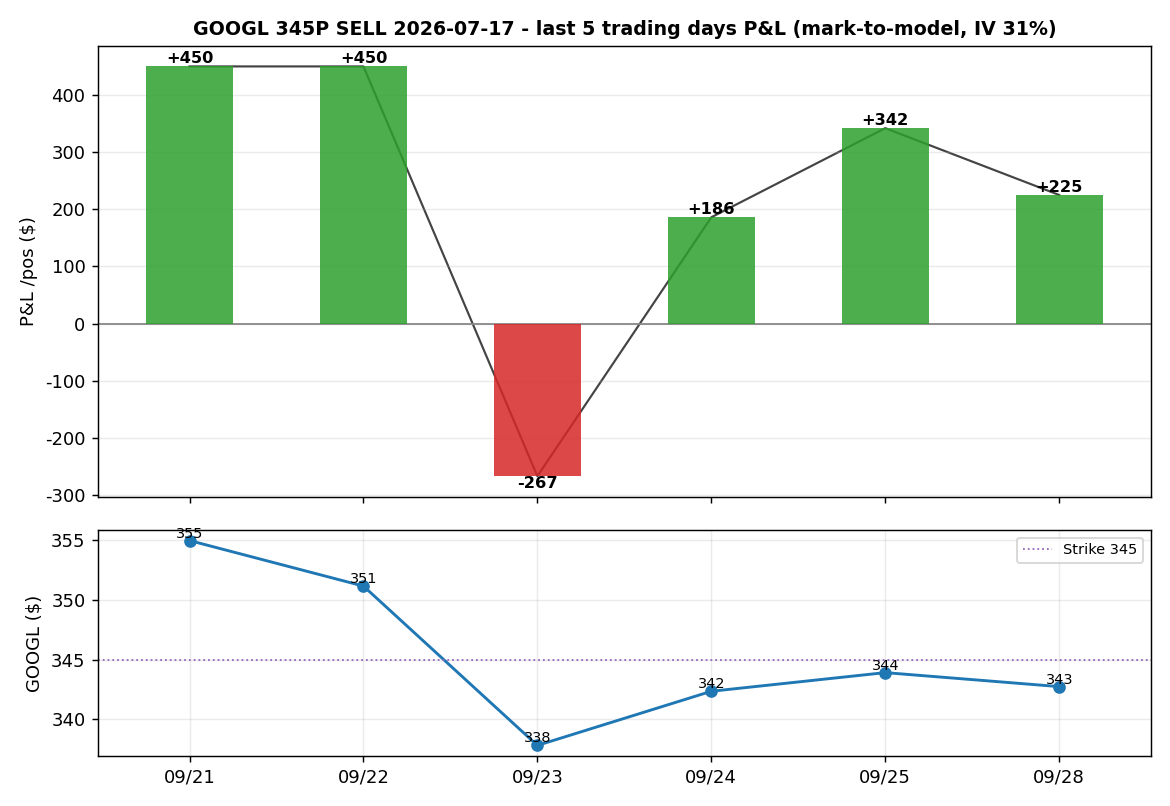
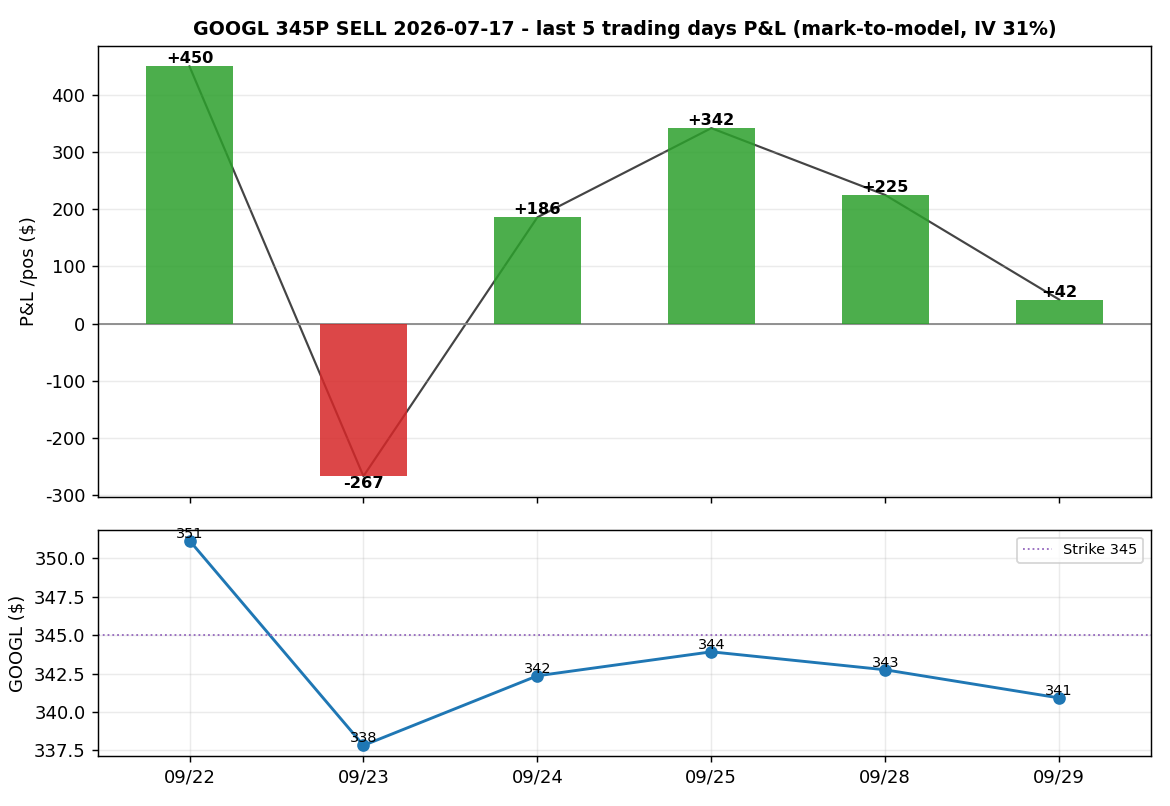
positions: 2026-10-01

diff --git a/positions.html b/positions.html
@@ -12,11 +12,11 @@ img{width:100%;height:auto;border-radius:8px;background:#fff}
 .warn{color:#e0a030;font-size:12.5px;line-height:1.7;margin-top:8px}
 </style></head><body><div class="wrap">
 <h1>持仓盈亏追踪</h1>
-<div class="sub">独立于每日荐股 · 数据 yfinance(延迟) · 盈亏为 BS 模型重算(IV 代理),非真实成交价 · 非投资建议<br>更新: 2026-09-30 00:43 UTC</div>
+<div class="sub">独立于每日荐股 · 数据 yfinance(延迟) · 盈亏为 BS 模型重算(IV 代理),非真实成交价 · 非投资建议<br>更新: 2026-10-01 00:47 UTC</div>
 <div class="card">
   <h2>STX Seagate · 835 PUT <span class="tag">SELL</span></h2>
   <div class="kv">到期 2026-06-26 · 建仓 2026-06-01 @ 权利金 $42.11 · 1 张<br>
-  最新(09/28): 标的 $921.51 · 浮动盈亏 <b class="g">+4,211</b>
+  最新(09/29): 标的 $913.45 · 浮动盈亏 <b class="g">+4,211</b>
   (区间 +4,211 ~ +4,211)<br>
   盈亏平衡 $792.89 · <b>赢的机率 PoP ≈ None%</b>(到期落在盈利侧, BS 估算)<br>
   下次财报 2026-10-27 ✅ 在到期后</div>
@@ -30,14 +30,14 @@ img{width:100%;height:auto;border-radius:8px;background:#fff}
     <tr><th style="border:1px solid #23262d;padding:5px 12px;color:#e0a030">日期</th>
         <th style="border:1px solid #23262d;padding:5px 12px;color:#e0a030">标的</th>
         <th style="border:1px solid #23262d;padding:5px 12px;color:#e0a030">P&L</th></tr>
-    <tr><td style="border:1px solid #23262d;padding:5px 12px">09/21</td><td style="border:1px solid #23262d;padding:5px 12px">$876.63</td><td class='g'>+4,211</td></tr><tr><td style="border:1px solid #23262d;padding:5px 12px">09/22</td><td style="border:1px solid #23262d;padding:5px 12px">$919.1</td><td class='g'>+4,211</td></tr><tr><td style="border:1px solid #23262d;padding:5px 12px">09/23</td><td style="border:1px solid #23262d;padding:5px 12px">$923.12</td><td class='g'>+4,211</td></tr><tr><td style="border:1px solid #23262d;padding:5px 12px">09/24</td><td style="border:1px solid #23262d;padding:5px 12px">$905.92</td><td class='g'>+4,211</td></tr><tr><td style="border:1px solid #23262d;padding:5px 12px">09/25</td><td style="border:1px solid #23262d;padding:5px 12px">$916.83</td><td class='g'>+4,211</td></tr><tr><td style="border:1px solid #23262d;padding:5px 12px">09/28</td><td style="border:1px solid #23262d;padding:5px 12px">$921.51</td><td class='g'>+4,211</td></tr>
+    <tr><td style="border:1px solid #23262d;padding:5px 12px">09/22</td><td style="border:1px solid #23262d;padding:5px 12px">$919.1</td><td class='g'>+4,211</td></tr><tr><td style="border:1px solid #23262d;padding:5px 12px">09/23</td><td style="border:1px solid #23262d;padding:5px 12px">$923.12</td><td class='g'>+4,211</td></tr><tr><td style="border:1px solid #23262d;padding:5px 12px">09/24</td><td style="border:1px solid #23262d;padding:5px 12px">$905.92</td><td class='g'>+4,211</td></tr><tr><td style="border:1px solid #23262d;padding:5px 12px">09/25</td><td style="border:1px solid #23262d;padding:5px 12px">$916.83</td><td class='g'>+4,211</td></tr><tr><td style="border:1px solid #23262d;padding:5px 12px">09/28</td><td style="border:1px solid #23262d;padding:5px 12px">$921.51</td><td class='g'>+4,211</td></tr><tr><td style="border:1px solid #23262d;padding:5px 12px">09/29</td><td style="border:1px solid #23262d;padding:5px 12px">$913.45</td><td class='g'>+4,211</td></tr>
   </table>
   <div class="warn">⚠ mark-to-model:用真实日线 + BS 重算(IV 固定 86% 代理),非真实期权成交价。</div>
 </div>
 <div class="card">
   <h2>GOOGL 谷歌 · 345 PUT <span class="tag">SELL</span></h2>
   <div class="kv">到期 2026-07-17 · 建仓 2026-06-01 @ 权利金 $4.5 · 1 张<br>
-  最新(09/28): 标的 $342.75 · 浮动盈亏 <b class="g">+225</b>
+  最新(09/29): 标的 $340.92 · 浮动盈亏 <b class="g">+42</b>
   (区间 -267 ~ +450)<br>
   盈亏平衡 $340.5 · <b>赢的机率 PoP ≈ None%</b>(到期落在盈利侧, BS 估算)<br>
   下次财报 2026-10-28 ✅ 在到期后</div>
@@ -51,14 +51,14 @@ img{width:100%;height:auto;border-radius:8px;background:#fff}
     <tr><th style="border:1px solid #23262d;padding:5px 12px;color:#e0a030">日期</th>
         <th style="border:1px solid #23262d;padding:5px 12px;color:#e0a030">标的</th>
         <th style="border:1px solid #23262d;padding:5px 12px;color:#e0a030">P&L</th></tr>
-    <tr><td style="border:1px solid #23262d;padding:5px 12px">09/21</td><td style="border:1px solid #23262d;padding:5px 12px">$354.97</td><td class='g'>+450</td></tr><tr><td style="border:1px solid #23262d;padding:5px 12px">09/22</td><td style="border:1px solid #23262d;padding:5px 12px">$351.16</td><td class='g'>+450</td></tr><tr><td style="border:1px solid #23262d;padding:5px 12px">09/23</td><td style="border:1px solid #23262d;padding:5px 12px">$337.83</td><td class='r'>-267</td></tr><tr><td style="border:1px solid #23262d;padding:5px 12px">09/24</td><td style="border:1px solid #23262d;padding:5px 12px">$342.36</td><td class='g'>+186</td></tr><tr><td style="border:1px solid #23262d;padding:5px 12px">09/25</td><td style="border:1px solid #23262d;padding:5px 12px">$343.92</td><td class='g'>+342</td></tr><tr><td style="border:1px solid #23262d;padding:5px 12px">09/28</td><td style="border:1px solid #23262d;padding:5px 12px">$342.75</td><td class='g'>+225</td></tr>
+    <tr><td style="border:1px solid #23262d;padding:5px 12px">09/22</td><td style="border:1px solid #23262d;padding:5px 12px">$351.16</td><td class='g'>+450</td></tr><tr><td style="border:1px solid #23262d;padding:5px 12px">09/23</td><td style="border:1px solid #23262d;padding:5px 12px">$337.83</td><td class='r'>-267</td></tr><tr><td style="border:1px solid #23262d;padding:5px 12px">09/24</td><td style="border:1px solid #23262d;padding:5px 12px">$342.36</td><td class='g'>+186</td></tr><tr><td style="border:1px solid #23262d;padding:5px 12px">09/25</td><td style="border:1px solid #23262d;padding:5px 12px">$343.92</td><td class='g'>+342</td></tr><tr><td style="border:1px solid #23262d;padding:5px 12px">09/28</td><td style="border:1px solid #23262d;padding:5px 12px">$342.75</td><td class='g'>+225</td></tr><tr><td style="border:1px solid #23262d;padding:5px 12px">09/29</td><td style="border:1px solid #23262d;padding:5px 12px">$340.92</td><td class='g'>+42</td></tr>
   </table>
   <div class="warn">⚠ mark-to-model:用真实日线 + BS 重算(IV 固定 31% 代理),非真实期权成交价。</div>
 </div>
 <div class="card">
   <h2>AAPL 苹果 · 295 PUT <span class="tag">SELL</span></h2>
   <div class="kv">到期 2026-07-10 · 建仓 2026-06-01 @ 权利金 $4.7 · 1 张<br>
-  最新(09/28): 标的 $338.4 · 浮动盈亏 <b class="g">+470</b>
+  最新(09/29): 标的 $329.4 · 浮动盈亏 <b class="g">+470</b>
   (区间 +470 ~ +470)<br>
   盈亏平衡 $290.3 · <b>赢的机率 PoP ≈ None%</b>(到期落在盈利侧, BS 估算)<br>
   下次财报 2026-10-29 ✅ 在到期后</div>
@@ -72,7 +72,7 @@ img{width:100%;height:auto;border-radius:8px;background:#fff}
     <tr><th style="border:1px solid #23262d;padding:5px 12px;color:#e0a030">日期</th>
         <th style="border:1px solid #23262d;padding:5px 12px;color:#e0a030">标的</th>
         <th style="border:1px solid #23262d;padding:5px 12px;color:#e0a030">P&L</th></tr>
-    <tr><td style="border:1px solid #23262d;padding:5px 12px">09/21</td><td style="border:1px solid #23262d;padding:5px 12px">$338.98</td><td class='g'>+470</td></tr><tr><td style="border:1px solid #23262d;padding:5px 12px">09/22</td><td style="border:1px solid #23262d;padding:5px 12px">$339.75</td><td class='g'>+470</td></tr><tr><td style="border:1px solid #23262d;padding:5px 12px">09/23</td><td style="border:1px solid #23262d;padding:5px 12px">$337.02</td><td class='g'>+470</td></tr><tr><td style="border:1px solid #23262d;padding:5px 12px">09/24</td><td style="border:1px solid #23262d;padding:5px 12px">$335.92</td><td class='g'>+470</td></tr><tr><td style="border:1px solid #23262d;padding:5px 12px">09/25</td><td style="border:1px solid #23262d;padding:5px 12px">$341.07</td><td class='g'>+470</td></tr><tr><td style="border:1px solid #23262d;padding:5px 12px">09/28</td><td style="border:1px solid #23262d;padding:5px 12px">$338.4</td><td class='g'>+470</td></tr>
+    <tr><td style="border:1px solid #23262d;padding:5px 12px">09/22</td><td style="border:1px solid #23262d;padding:5px 12px">$339.75</td><td class='g'>+470</td></tr><tr><td style="border:1px solid #23262d;padding:5px 12px">09/23</td><td style="border:1px solid #23262d;padding:5px 12px">$337.02</td><td class='g'>+470</td></tr><tr><td style="border:1px solid #23262d;padding:5px 12px">09/24</td><td style="border:1px solid #23262d;padding:5px 12px">$335.92</td><td class='g'>+470</td></tr><tr><td style="border:1px solid #23262d;padding:5px 12px">09/25</td><td style="border:1px solid #23262d;padding:5px 12px">$341.07</td><td class='g'>+470</td></tr><tr><td style="border:1px solid #23262d;padding:5px 12px">09/28</td><td style="border:1px solid #23262d;padding:5px 12px">$338.4</td><td class='g'>+470</td></tr><tr><td style="border:1px solid #23262d;padding:5px 12px">09/29</td><td style="border:1px solid #23262d;padding:5px 12px">$329.4</td><td class='g'>+470</td></tr>
   </table>
   <div class="warn">⚠ mark-to-model:用真实日线 + BS 重算(IV 固定 25% 代理),非真实期权成交价。</div>
 </div></div></body></html>
